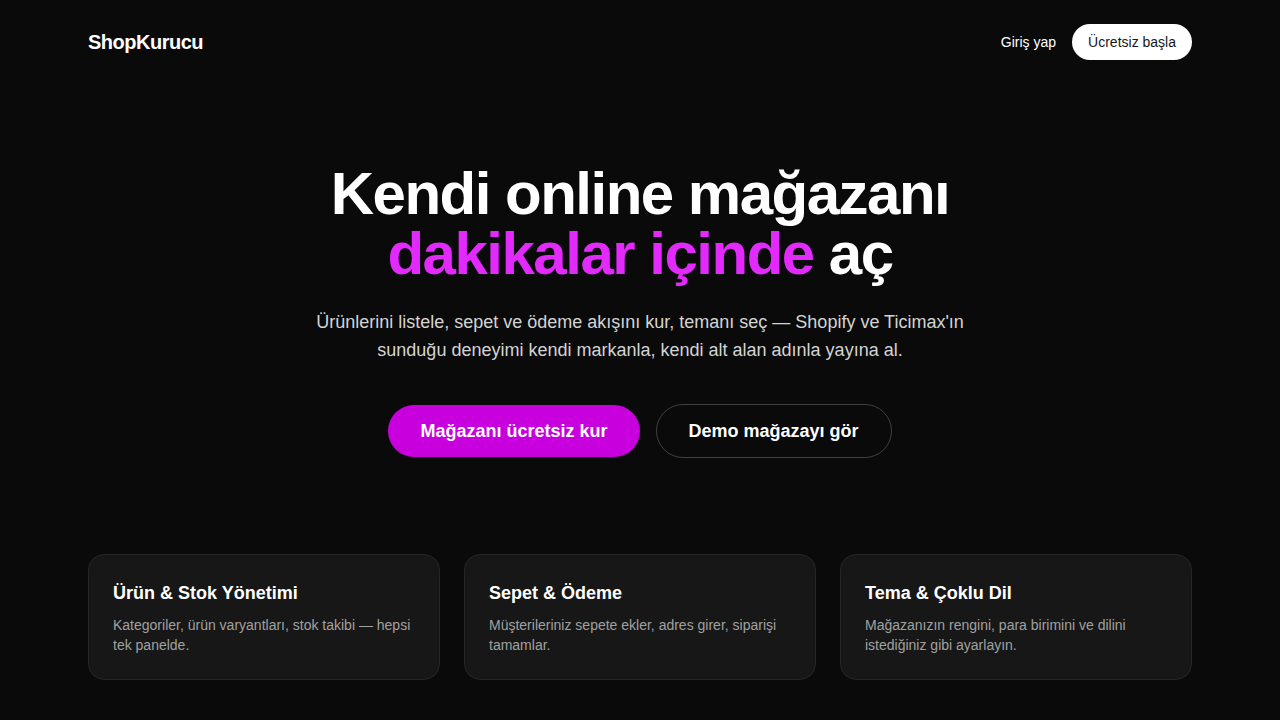
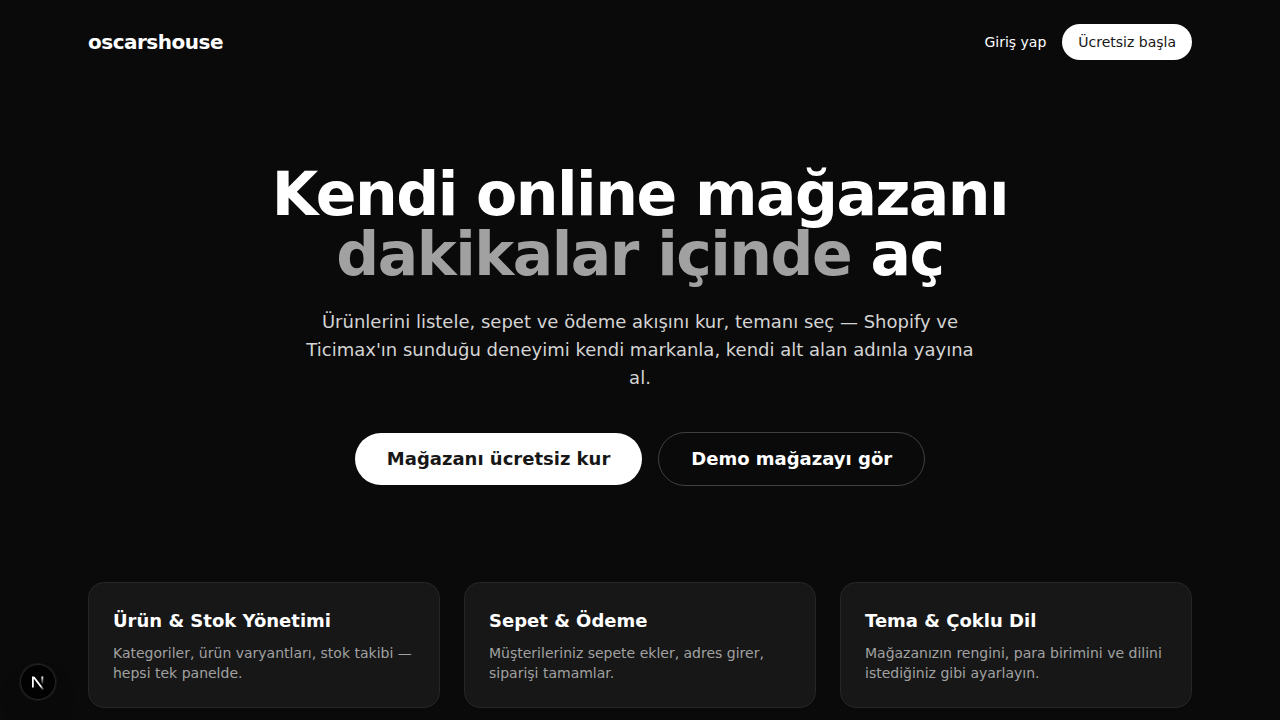
update

diff --git a/docs/index.html b/docs/index.html
@@ -3,7 +3,7 @@
 <head>
 <meta charset="UTF-8" />
 <meta name="viewport" content="width=device-width, initial-scale=1.0" />
-<title>ShopKurucu — Çok Kiracılı E-Ticaret Platformu</title>
+<title>oscarshouse — Çok Kiracılı E-Ticaret Platformu</title>
 <meta name="description" content="Shopify/Ticimax mantığında, kullanıcıların kendi online mağazasını açabildiği çok kiracılı e-ticaret platformu. Next.js 16 + Drizzle ORM + Tailwind ile geliştirildi." />
 <style>
   :root {
@@ -12,8 +12,8 @@
     --panel-border: #262626;
     --text: #f5f5f5;
     --muted: #a3a3a3;
-    --accent: #c026d3;
-    --accent-2: #f97316;
+    --accent: #ffffff;
+    --accent-2: #9ca3af;
   }
   * { box-sizing: border-box; }
   body {
@@ -60,7 +60,7 @@
     font-size: 15px;
     text-decoration: none;
   }
-  .btn.primary { background: var(--accent); color: white; }
+  .btn.primary { background: var(--text); color: var(--bg); }
   .btn.secondary { border: 1px solid var(--panel-border); color: var(--text); }
 
   .badges { display: flex; gap: 8px; justify-content: center; flex-wrap: wrap; margin-top: 28px; }
@@ -129,19 +129,19 @@
 
   footer { padding: 40px 0 60px; text-align: center; color: var(--muted); font-size: 13px; }
   .note {
-    background: rgba(192, 38, 211, 0.08);
-    border: 1px solid rgba(192, 38, 211, 0.35);
+    background: rgba(245, 245, 245, 0.06);
+    border: 1px solid rgba(245, 245, 245, 0.2);
     border-radius: 12px;
     padding: 16px 20px;
     font-size: 14px;
-    color: #e9d5ff;
+    color: #e5e5e5;
   }
 </style>
 </head>
 <body>
   <div class="wrap">
     <header class="top">
-      <div class="brand">Shop<span>Kurucu</span></div>
+      <div class="brand">oscar<span>shouse</span></div>
       <nav class="top">
         <a href="#ozellikler">Özellikler</a>
         <a href="#gorunum">Görünüm</a>
@@ -284,7 +284,7 @@ npm run dev         # http://localhost:3000</code></pre>
     </section>
 
     <footer>
-      ShopKurucu — açık kaynak bir e-ticaret platformu temeli. Detaylı kurulum ve mimari
+      oscarshouse — açık kaynak bir e-ticaret platformu temeli. Detaylı kurulum ve mimari
       dokümantasyonu için repodaki README.md dosyasına bakın.
     </footer>
   </div>

diff --git a/src/app/page.tsx b/src/app/page.tsx
@@ -4,7 +4,7 @@ export default function LandingPage() {
   return (
     <main className="flex-1 bg-neutral-950 text-white">
       <header className="max-w-6xl mx-auto flex items-center justify-between px-6 py-6">
-        <span className="text-xl font-bold tracking-tight">ShopKurucu</span>
+        <span className="text-xl font-bold tracking-tight">oscarshouse</span>
         <nav className="flex items-center gap-4 text-sm">
           <Link href="/login" className="hover:underline">
             Giriş yap
@@ -20,7 +20,7 @@ export default function LandingPage() {
 
       <section className="max-w-4xl mx-auto text-center px-6 pt-20 pb-24">
         <h1 className="text-4xl sm:text-6xl font-bold tracking-tight">
-          Kendi online mağazanı <span className="text-fuchsia-500">dakikalar içinde</span> aç
+          Kendi online mağazanı <span className="text-neutral-400">dakikalar içinde</span> aç
         </h1>
         <p className="mt-6 text-lg text-neutral-300 max-w-2xl mx-auto">
           Ürünlerini listele, sepet ve ödeme akışını kur, temanı seç — Shopify ve Ticimax&apos;ın
@@ -29,7 +29,7 @@ export default function LandingPage() {
         <div className="mt-10 flex items-center justify-center gap-4">
           <Link
             href="/signup"
-            className="bg-fuchsia-600 hover:bg-fuchsia-500 px-8 py-3 rounded-full font-semibold text-lg"
+            className="bg-white text-neutral-900 hover:bg-neutral-200 px-8 py-3 rounded-full font-semibold text-lg"
           >
             Mağazanı ücretsiz kur
           </Link>

diff --git a/src/app/admin/[store]/layout.tsx b/src/app/admin/[store]/layout.tsx
@@ -25,7 +25,7 @@ export default async function AdminLayout({
       <aside className="w-60 shrink-0 bg-neutral-900 text-white flex flex-col">
         <div className="px-5 py-5 border-b border-neutral-800">
           <p className="font-bold truncate">{storeRecord.name}</p>
-          <p className="text-xs text-neutral-400 truncate">{storeRecord.subdomain}.shopkurucu.com</p>
+          <p className="text-xs text-neutral-400 truncate">{storeRecord.subdomain}.oscarshouse.com</p>
         </div>
         <nav className="flex-1 px-3 py-4 space-y-1">
           {navItems.map((item) => (

diff --git a/src/app/dashboard/page.tsx b/src/app/dashboard/page.tsx
@@ -37,7 +37,7 @@ export default async function DashboardPage() {
             >
               <div>
                 <p className="font-semibold">{store.name}</p>
-                <p className="text-sm text-neutral-500">{store.subdomain}.shopkurucu.com</p>
+                <p className="text-sm text-neutral-500">{store.subdomain}.oscarshouse.com</p>
               </div>
               <div className="flex gap-3 text-sm">
                 <Link href={`/store/${store.subdomain}`} className="text-neutral-500 hover:underline">

diff --git a/src/components/forms/SignupForm.tsx b/src/components/forms/SignupForm.tsx
@@ -88,7 +88,7 @@ export function SignupForm() {
             pattern="[a-z0-9-]+"
             className="flex-1 px-3 py-2 focus:outline-none"
           />
-          <span className="px-3 text-neutral-500 text-sm bg-neutral-50">.shopkurucu.com</span>
+          <span className="px-3 text-neutral-500 text-sm bg-neutral-50">.oscarshouse.com</span>
         </div>
         {state?.fieldErrors?.subdomain && (
           <p className="text-red-600 text-sm mt-1">{state.fieldErrors.subdomain}</p>

diff --git a/src/app/store/[store]/layout.tsx b/src/app/store/[store]/layout.tsx
@@ -41,7 +41,7 @@ export default async function StorefrontLayout({
       </header>
       <main className="flex-1">{children}</main>
       <footer className="border-t border-neutral-200 py-8 text-center text-sm text-neutral-500">
-        © {new Date().getFullYear()} {storeRecord.name} — ShopKurucu ile oluşturuldu
+        © {new Date().getFullYear()} {storeRecord.name} — oscarshouse ile oluşturuldu
       </footer>
     </div>
   );

diff --git a/src/app/layout.tsx b/src/app/layout.tsx
@@ -8,7 +8,7 @@ import "./globals.css";
 // webfont, use `next/font/local` with a self-hosted font file.
 
 export const metadata: Metadata = {
-  title: "ShopKurucu — Kendi mağazanı dakikalar içinde aç",
+  title: "oscarshouse — Kendi mağazanı dakikalar içinde aç",
   description: "Shopify/Ticimax mantığında çok kiracılı e-ticaret platformu",
 };
 

diff --git a/README.md b/README.md
@@ -1,4 +1,4 @@
-# ShopKurucu — Çok Kiracılı E-Ticaret Platformu (v1)
+# oscarshouse — Çok Kiracılı E-Ticaret Platformu (v1)
 
 Shopify / Ticimax mantığında, kullanıcıların kayıt olup kendi online mağazalarını
 açabildiği çok kiracılı (multi-tenant) bir e-ticaret SaaS platformunun **v1
